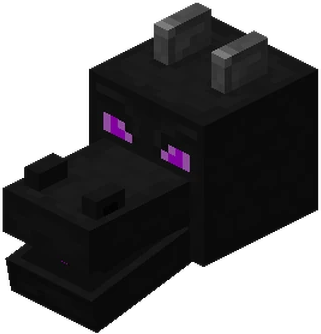
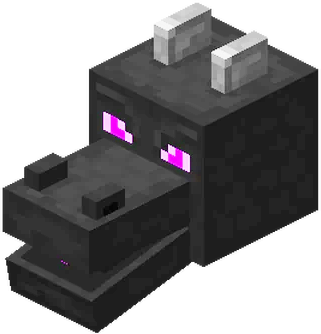
made dragon brighter

diff --git a/src/components/canvas/B2.jsx b/src/components/canvas/B2.jsx
@@ -26,7 +26,7 @@ const B2Canvas = () => {
         position: [10, 5, 0],
       }}
     >
-      <ambientLight intensity={9} /> {/* Increased intensity */}
+      <ambientLight intensity={12} /> {/* Increased intensity */}
       
       <Suspense fallback={<CanvasLoader />}>
         <OrbitControls enableZoom={false} enableRotate={false} /> {/* Disable rotation */}
